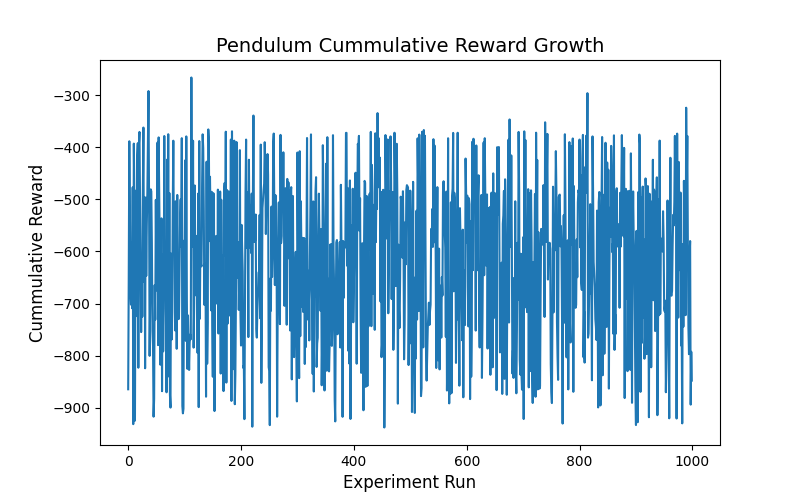
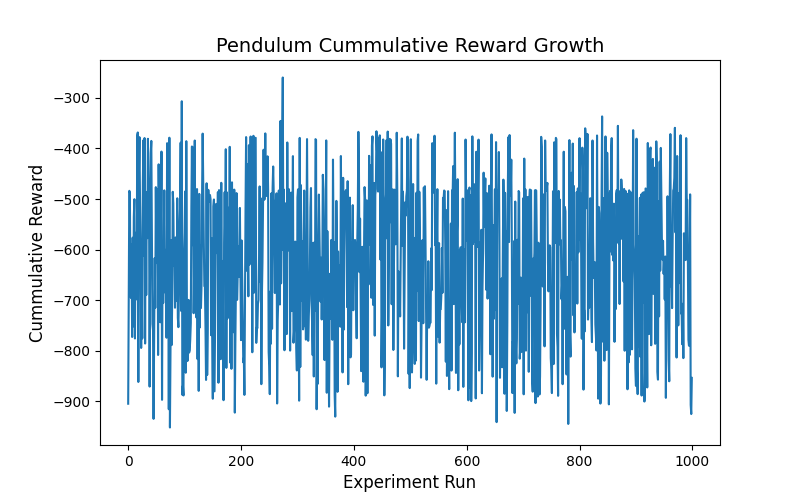
ActorCritic Softmax agent_start, agent_step

diff --git a/Pendulum/Softmax_Actor_Critic_Tile_Coding/my_experiment.py b/Pendulum/Softmax_Actor_Critic_Tile_Coding/my_experiment.py
@@ -11,6 +11,14 @@ import gymnasium as gym
 
 import matplotlib.pyplot as plt 
 
+def metrics(obs):
+	cos_theta = obs[0]
+	sin_theta = obs[1]
+	theta_dot = obs[2]
+	theta = np.degrees(np.arctan2(sin_theta, cos_theta))
+	# print("Angle:", theta, "Angle Velocity: ", theta_dot)
+	return (theta, theta_dot)
+
 def run_experiment(
 		current_env, 
 		current_agent, 
@@ -45,19 +53,38 @@ def run_experiment(
 		print(agent_info)
 
 		current_agent.agent_init(agent_info)
+		actions = np.linspace(-2.0, 2.0, 10)
+
+		agent_last_state = metrics(obs)
+		agent_last_action = None
+		agent_last_reward = None
 
 		while num_steps < experiment_parameters['max_steps']:
 			num_steps += 1
+			action = None
 			###
 			
 			### MAX LEFT
 			# action = [1.9] 
 
-			### RANDOM ACTION
-			action = current_env.action_space.sample()
+			if num_steps == 1:
+				### RANDOM START ACTION
+				# action = current_env.action_space.sample()
 
-			### ACTOR_CRITIC SOFTMAX AGENT
+				### ACTOR CRITIC SOFTMAX AGENT START
+				agent_action_index = current_agent.agent_start(agent_last_state)
+				action = [actions[agent_action_index]]
 
+			else: 
+				### ACTOR_CRITIC SOFTMAX AGENT
+				agent_action_index = current_agent.agent_step(
+					agent_last_reward,
+					agent_last_state
+				)
+				
+				action = [actions[agent_action_index]]				
+				
+				print("AGENT START ACTION ",action)
 
 			### IMPROVING ACTION SELECTION
 			###
@@ -75,6 +102,10 @@ def run_experiment(
 				)
 
 			total_reward += reward
+
+			agent_last_state = metrics(next_obs)
+			agent_last_reward = reward
+			agent_last_action = action
 
 			if terminated or truncated:
 				obs, info = current_env.reset()
@@ -109,7 +140,7 @@ agent_parameters = {
     "actor_step_size": 2**(-2),
     "critic_step_size": 2**1,
     "avg_reward_step_size": 2**(-6),
-    "num_actions": 3,
+    "num_actions": 10,
     "iht_size": 4096
 }
 

diff --git a/Pendulum/Softmax_Actor_Critic_Tile_Coding/agent.py b/Pendulum/Softmax_Actor_Critic_Tile_Coding/agent.py
@@ -60,6 +60,10 @@ class ActorCriticSoftmaxAgent(BaseAgent):
         self.avg_reward_step_size = agent_info.get("avg_reward_step_size")
 
         self.actions = list(range(agent_info.get("num_actions")))
+        print(
+            "POSSIBLE ACTIONS ", 
+            self.actions
+        )
 
         # Set initial values of average reward, actor weights, and critic weights
         # We initialize actor weights to three times the iht_size. 
